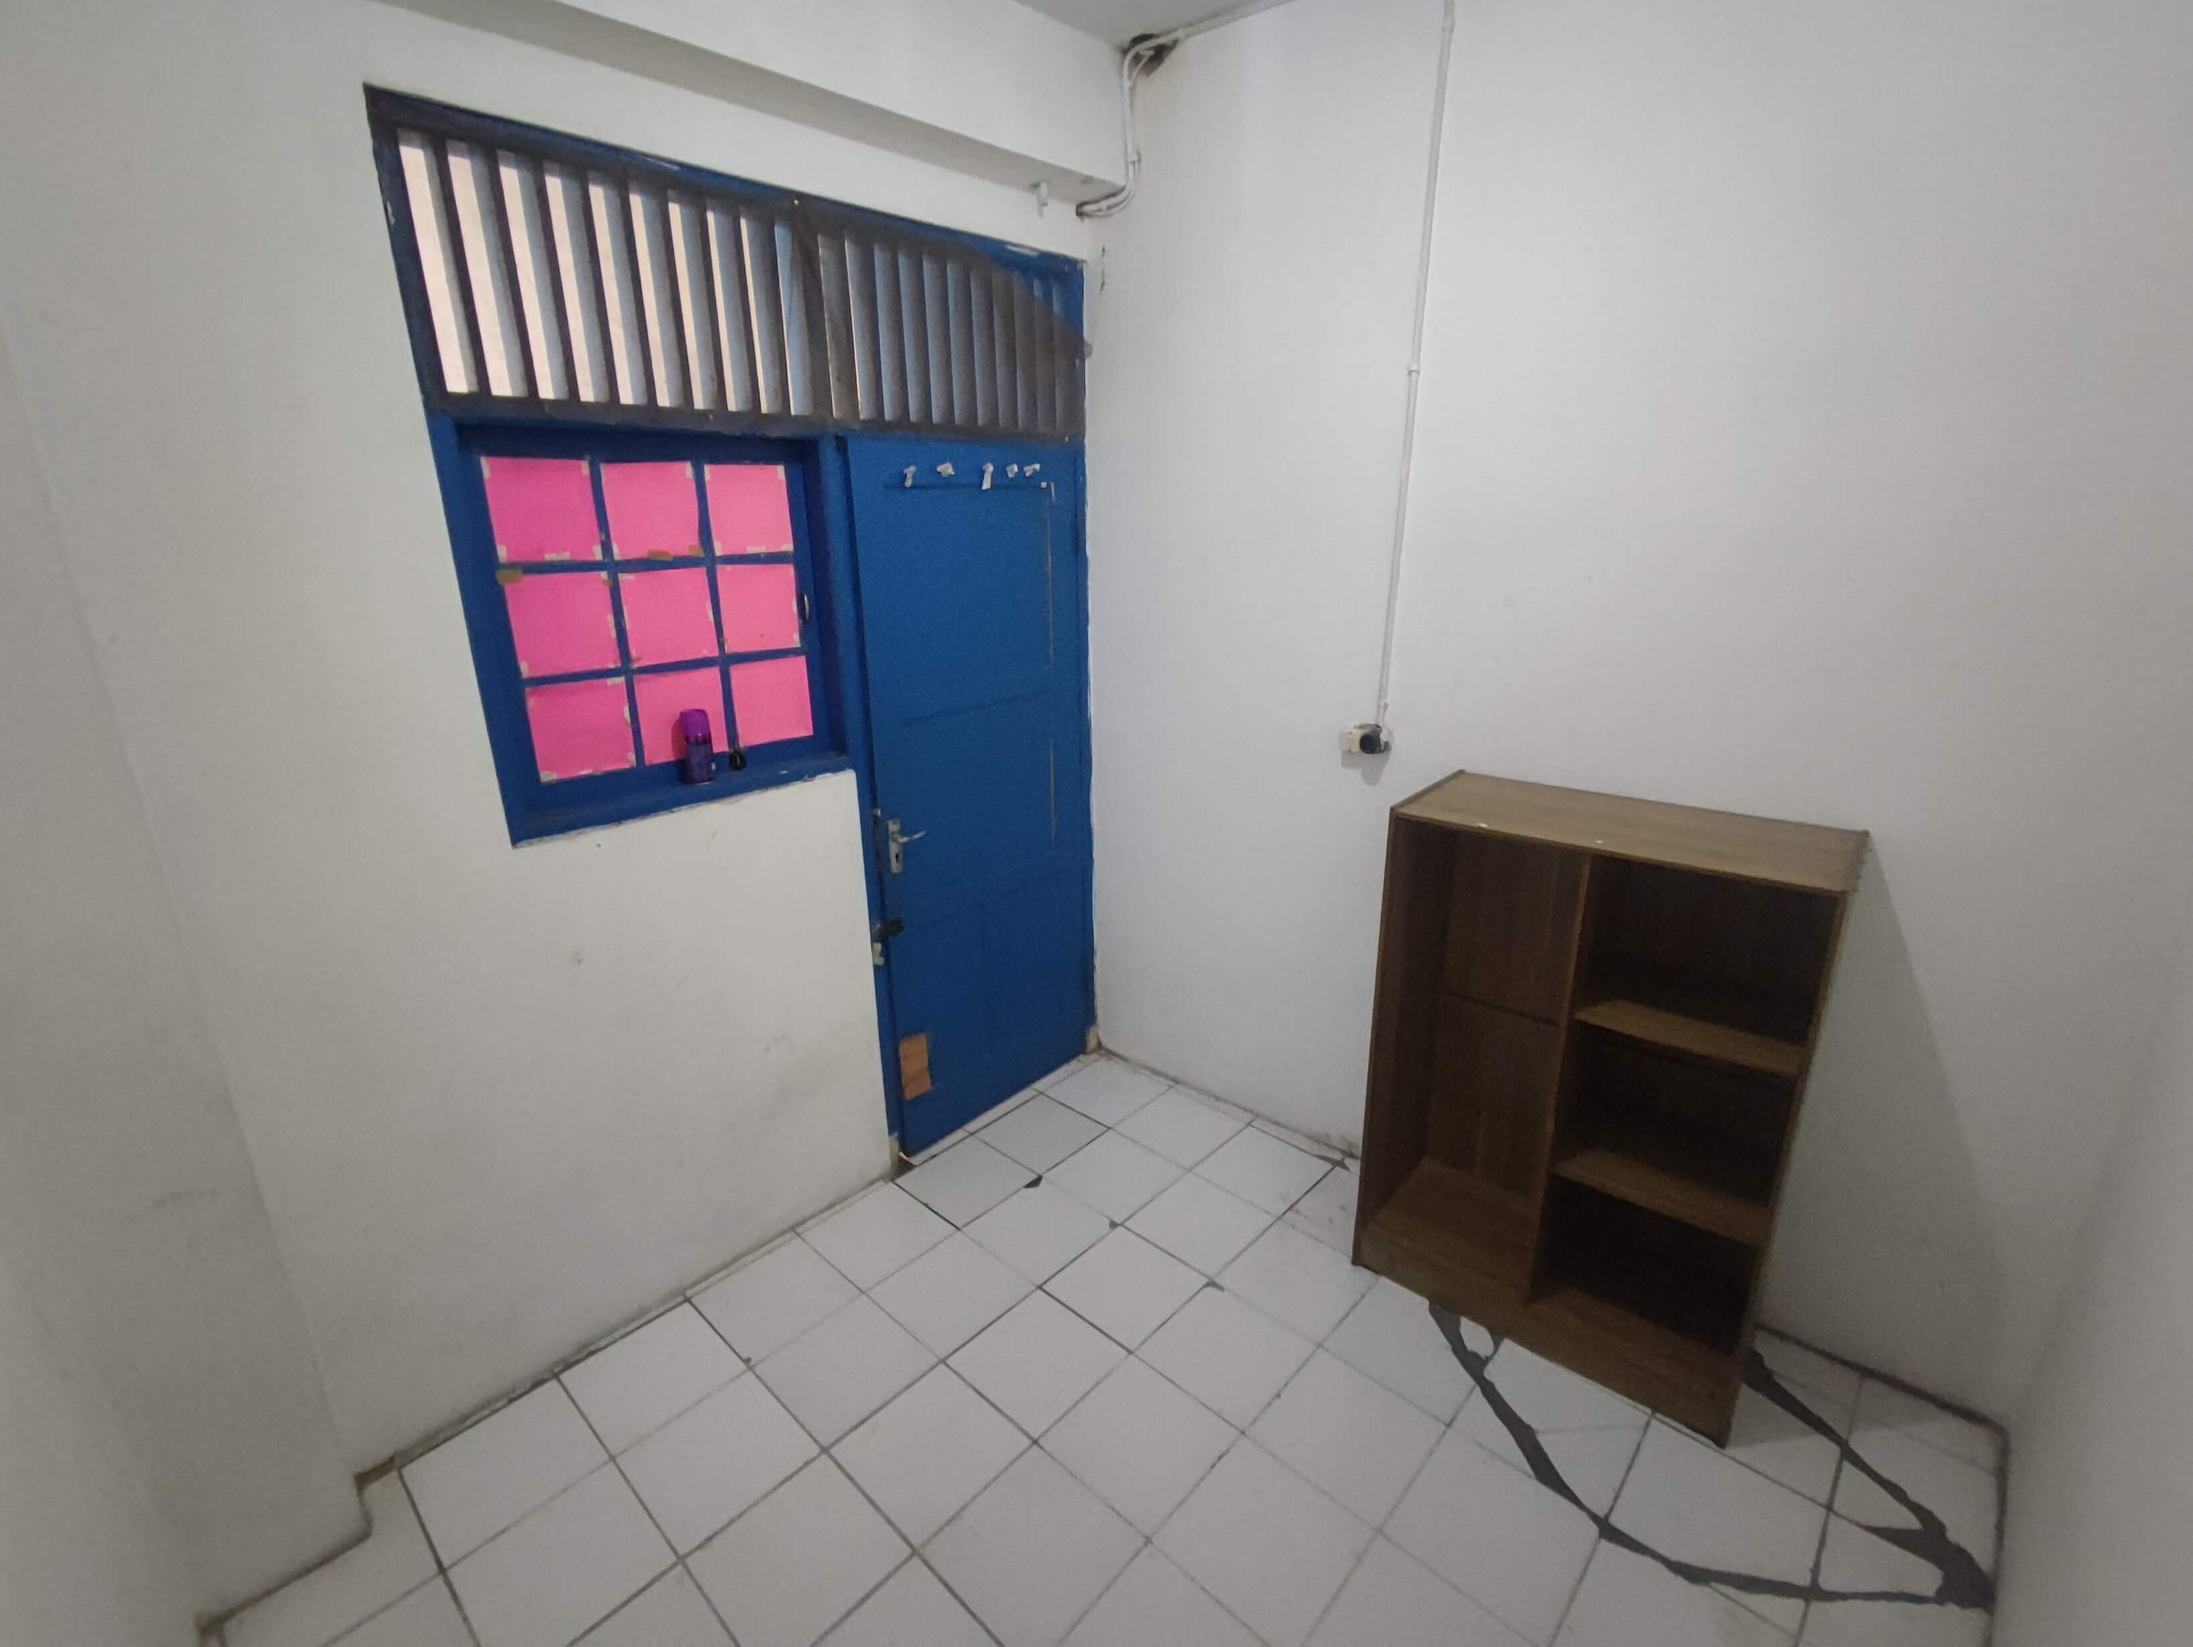
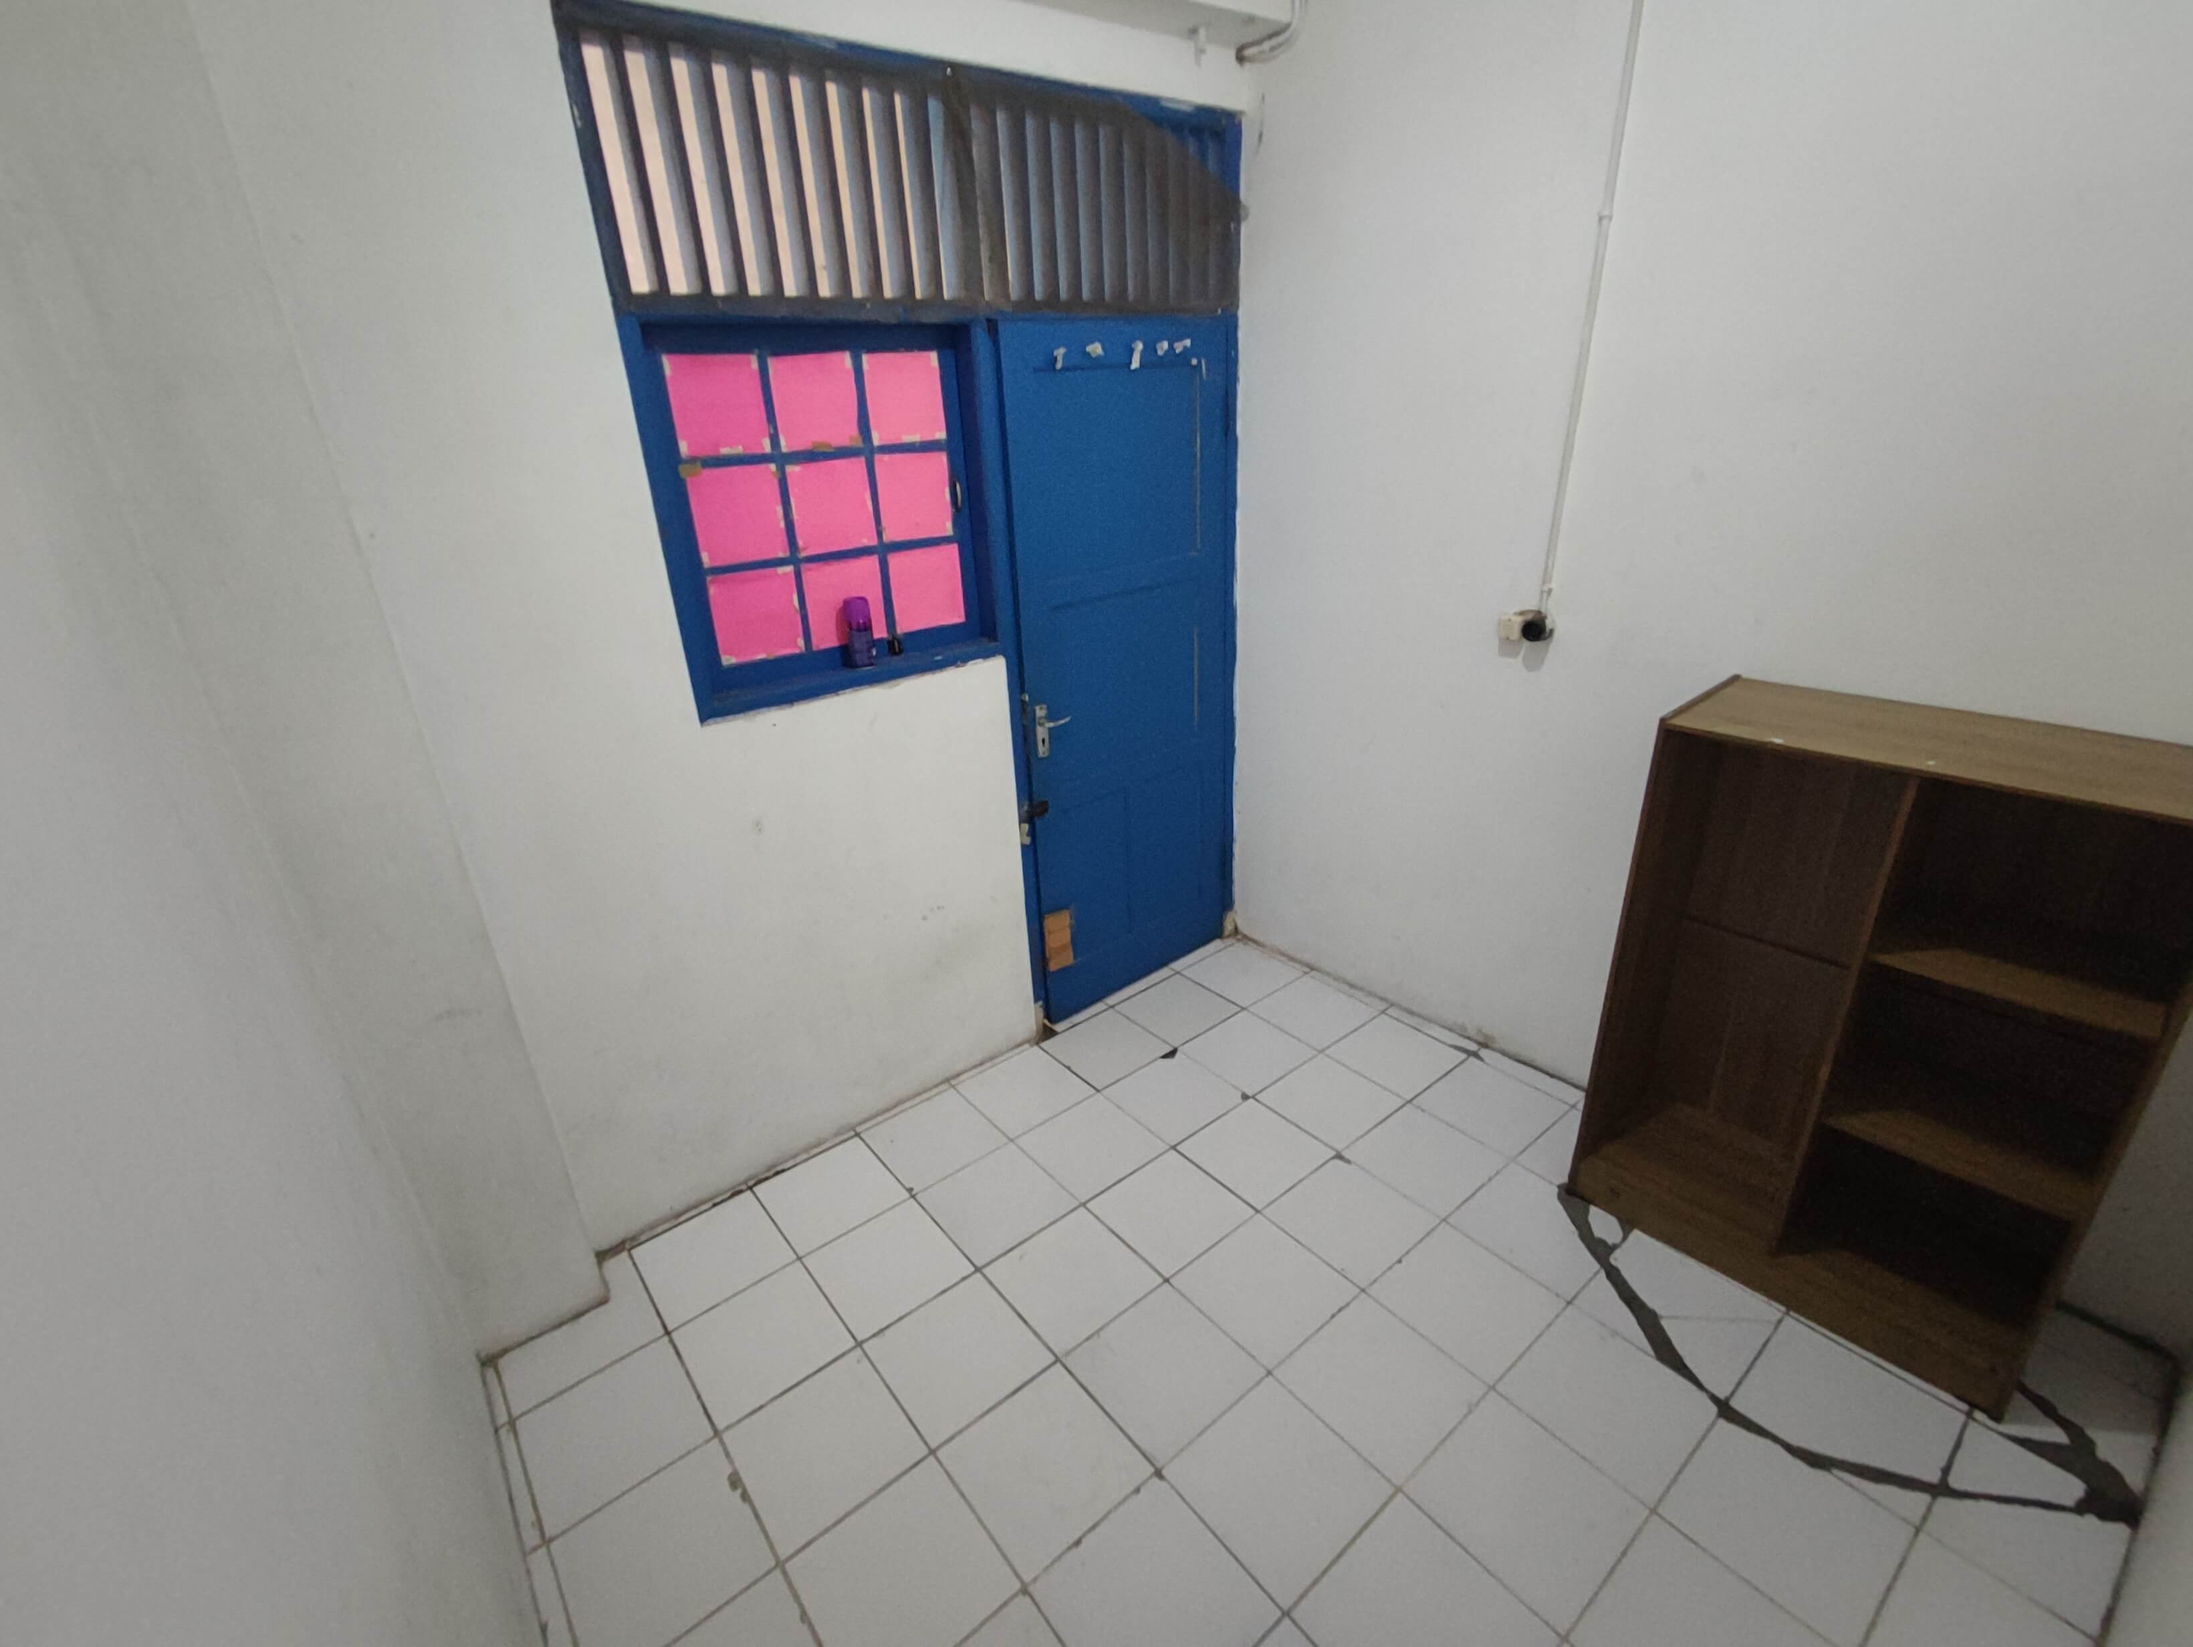
update photo B2
tembok lebih bersih

diff --git a/B/2.html b/B/2.html
@@ -27,7 +27,7 @@
         </ul>
         Ukuran Kamar : ± 2,4 x 2,4 meter
         <br><br>
-        Terakhir diperbarui : 1 Februari 2024
+        Terakhir diperbarui : 6 Februari 2024
     </p>
     <img src="./assets/2_entry.jpg" width="100%" height="auto" max-width="800px">
     <img src="./assets/2_back.jpg" width="100%" height="auto" max-width="800px">
